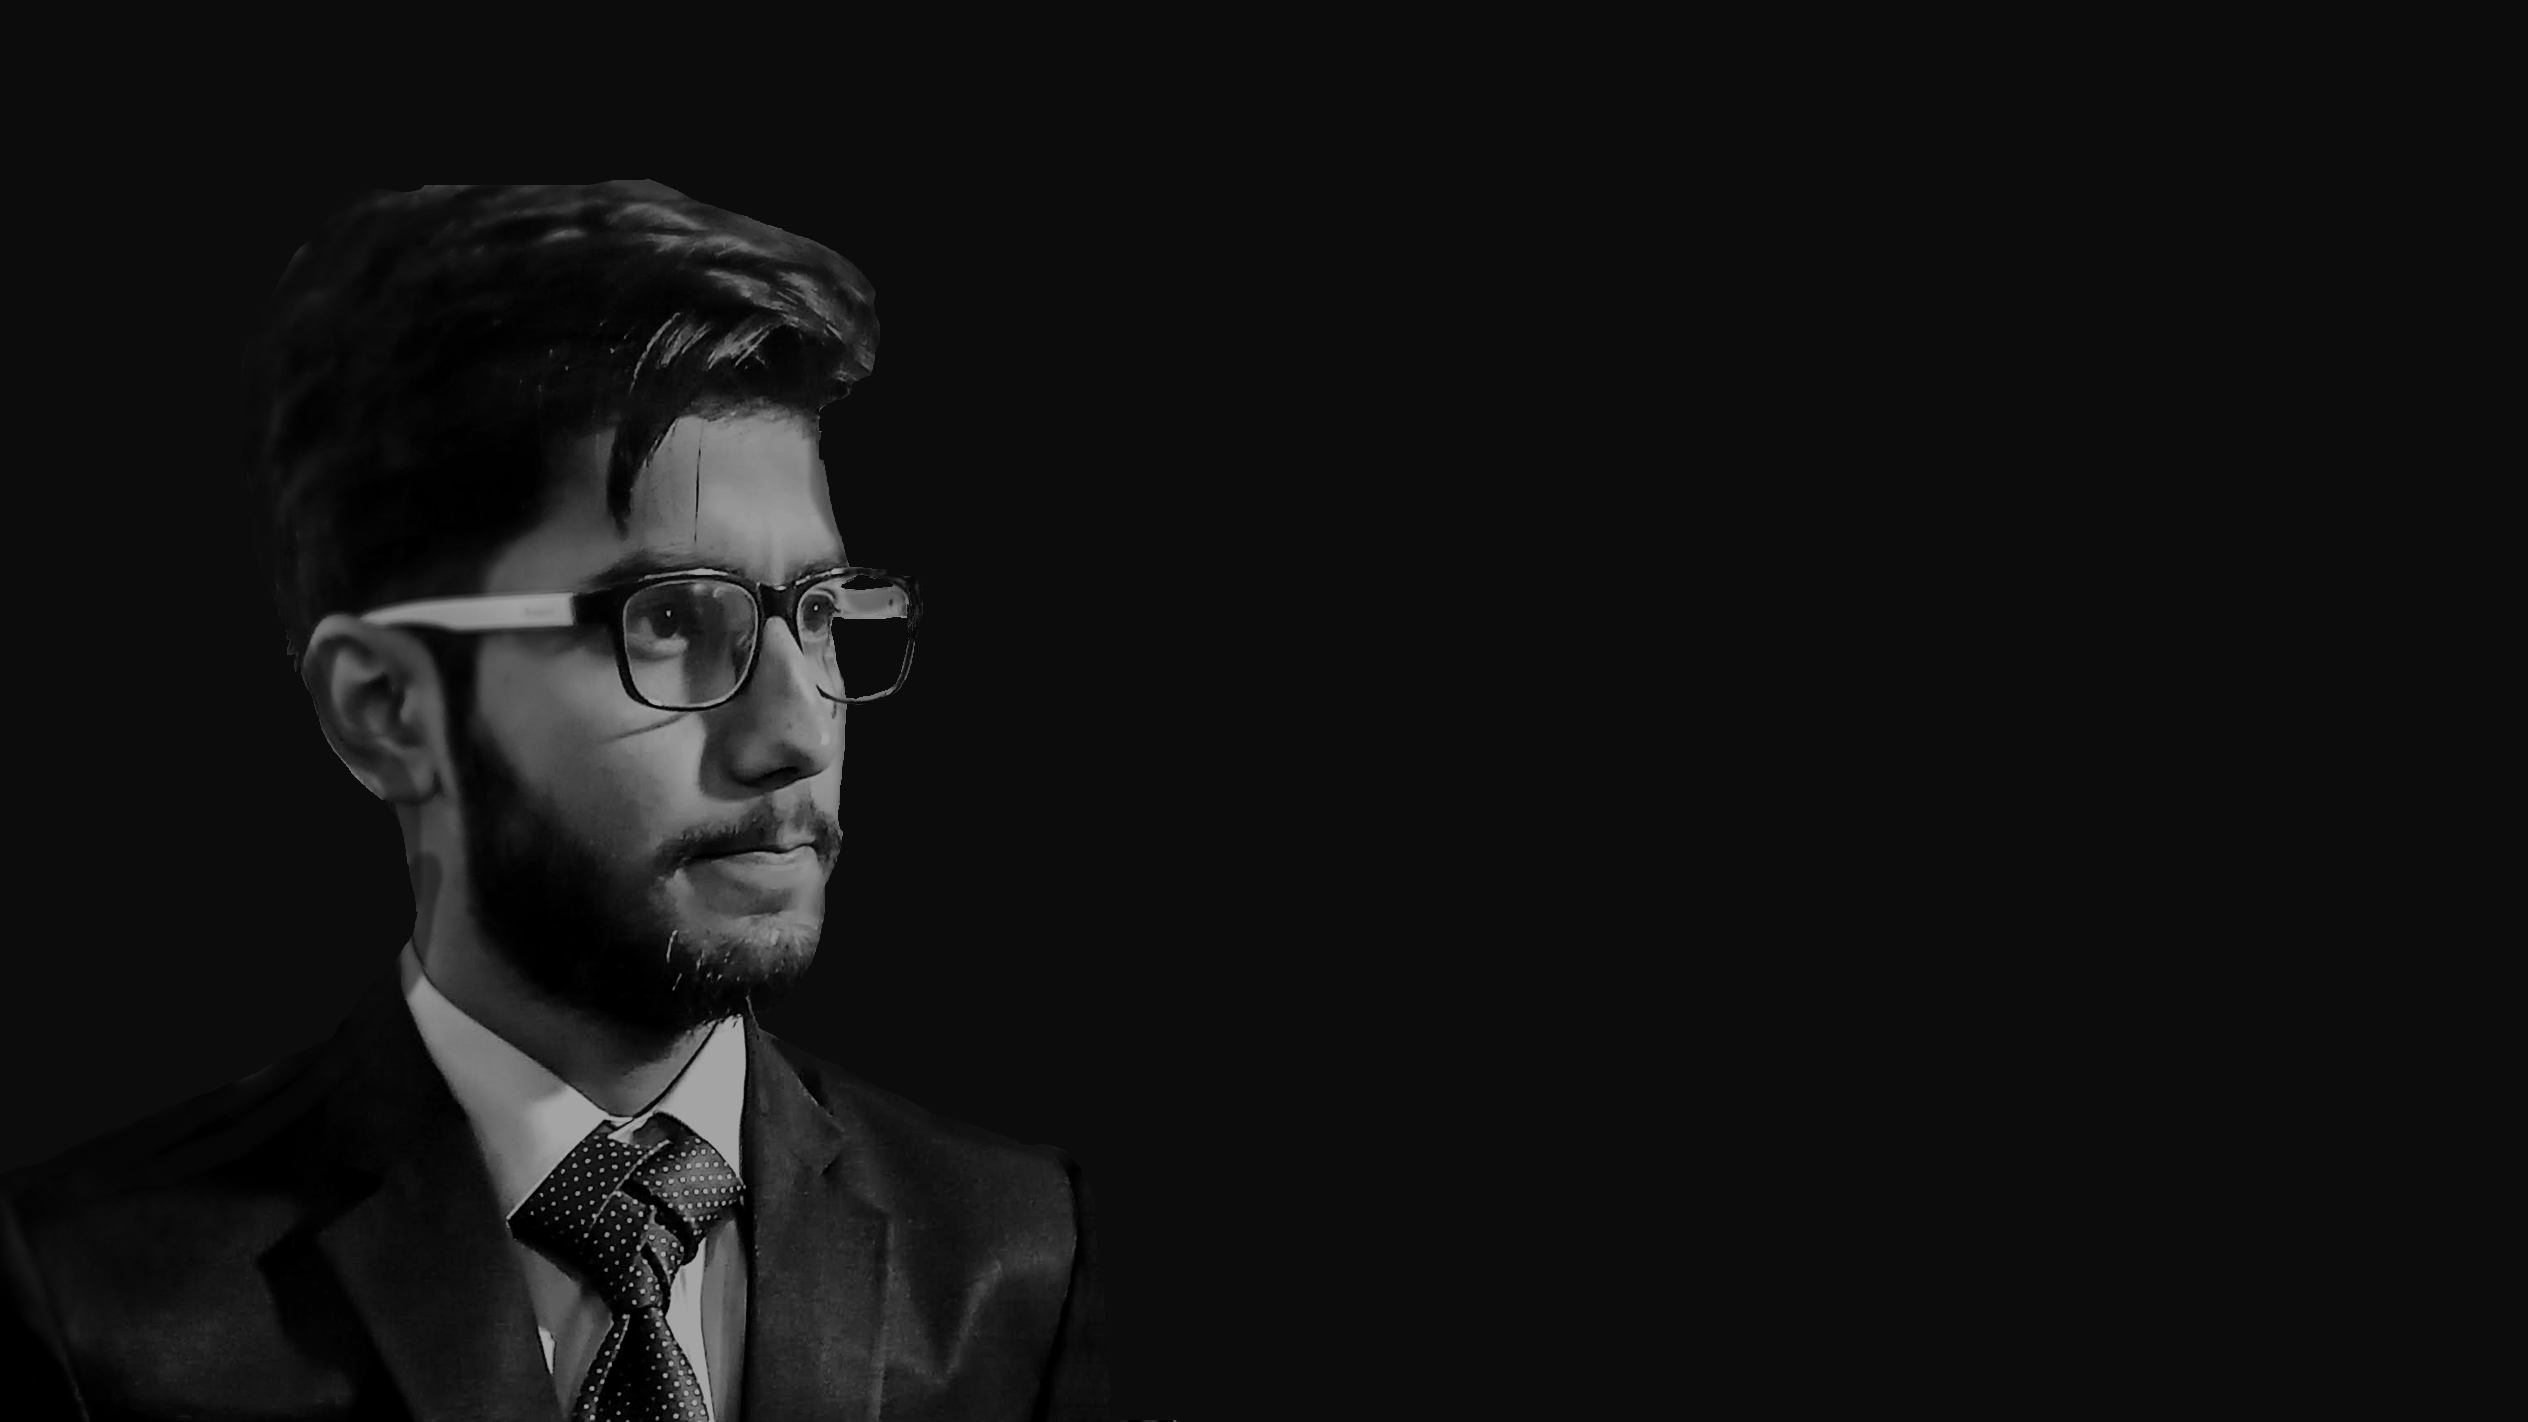
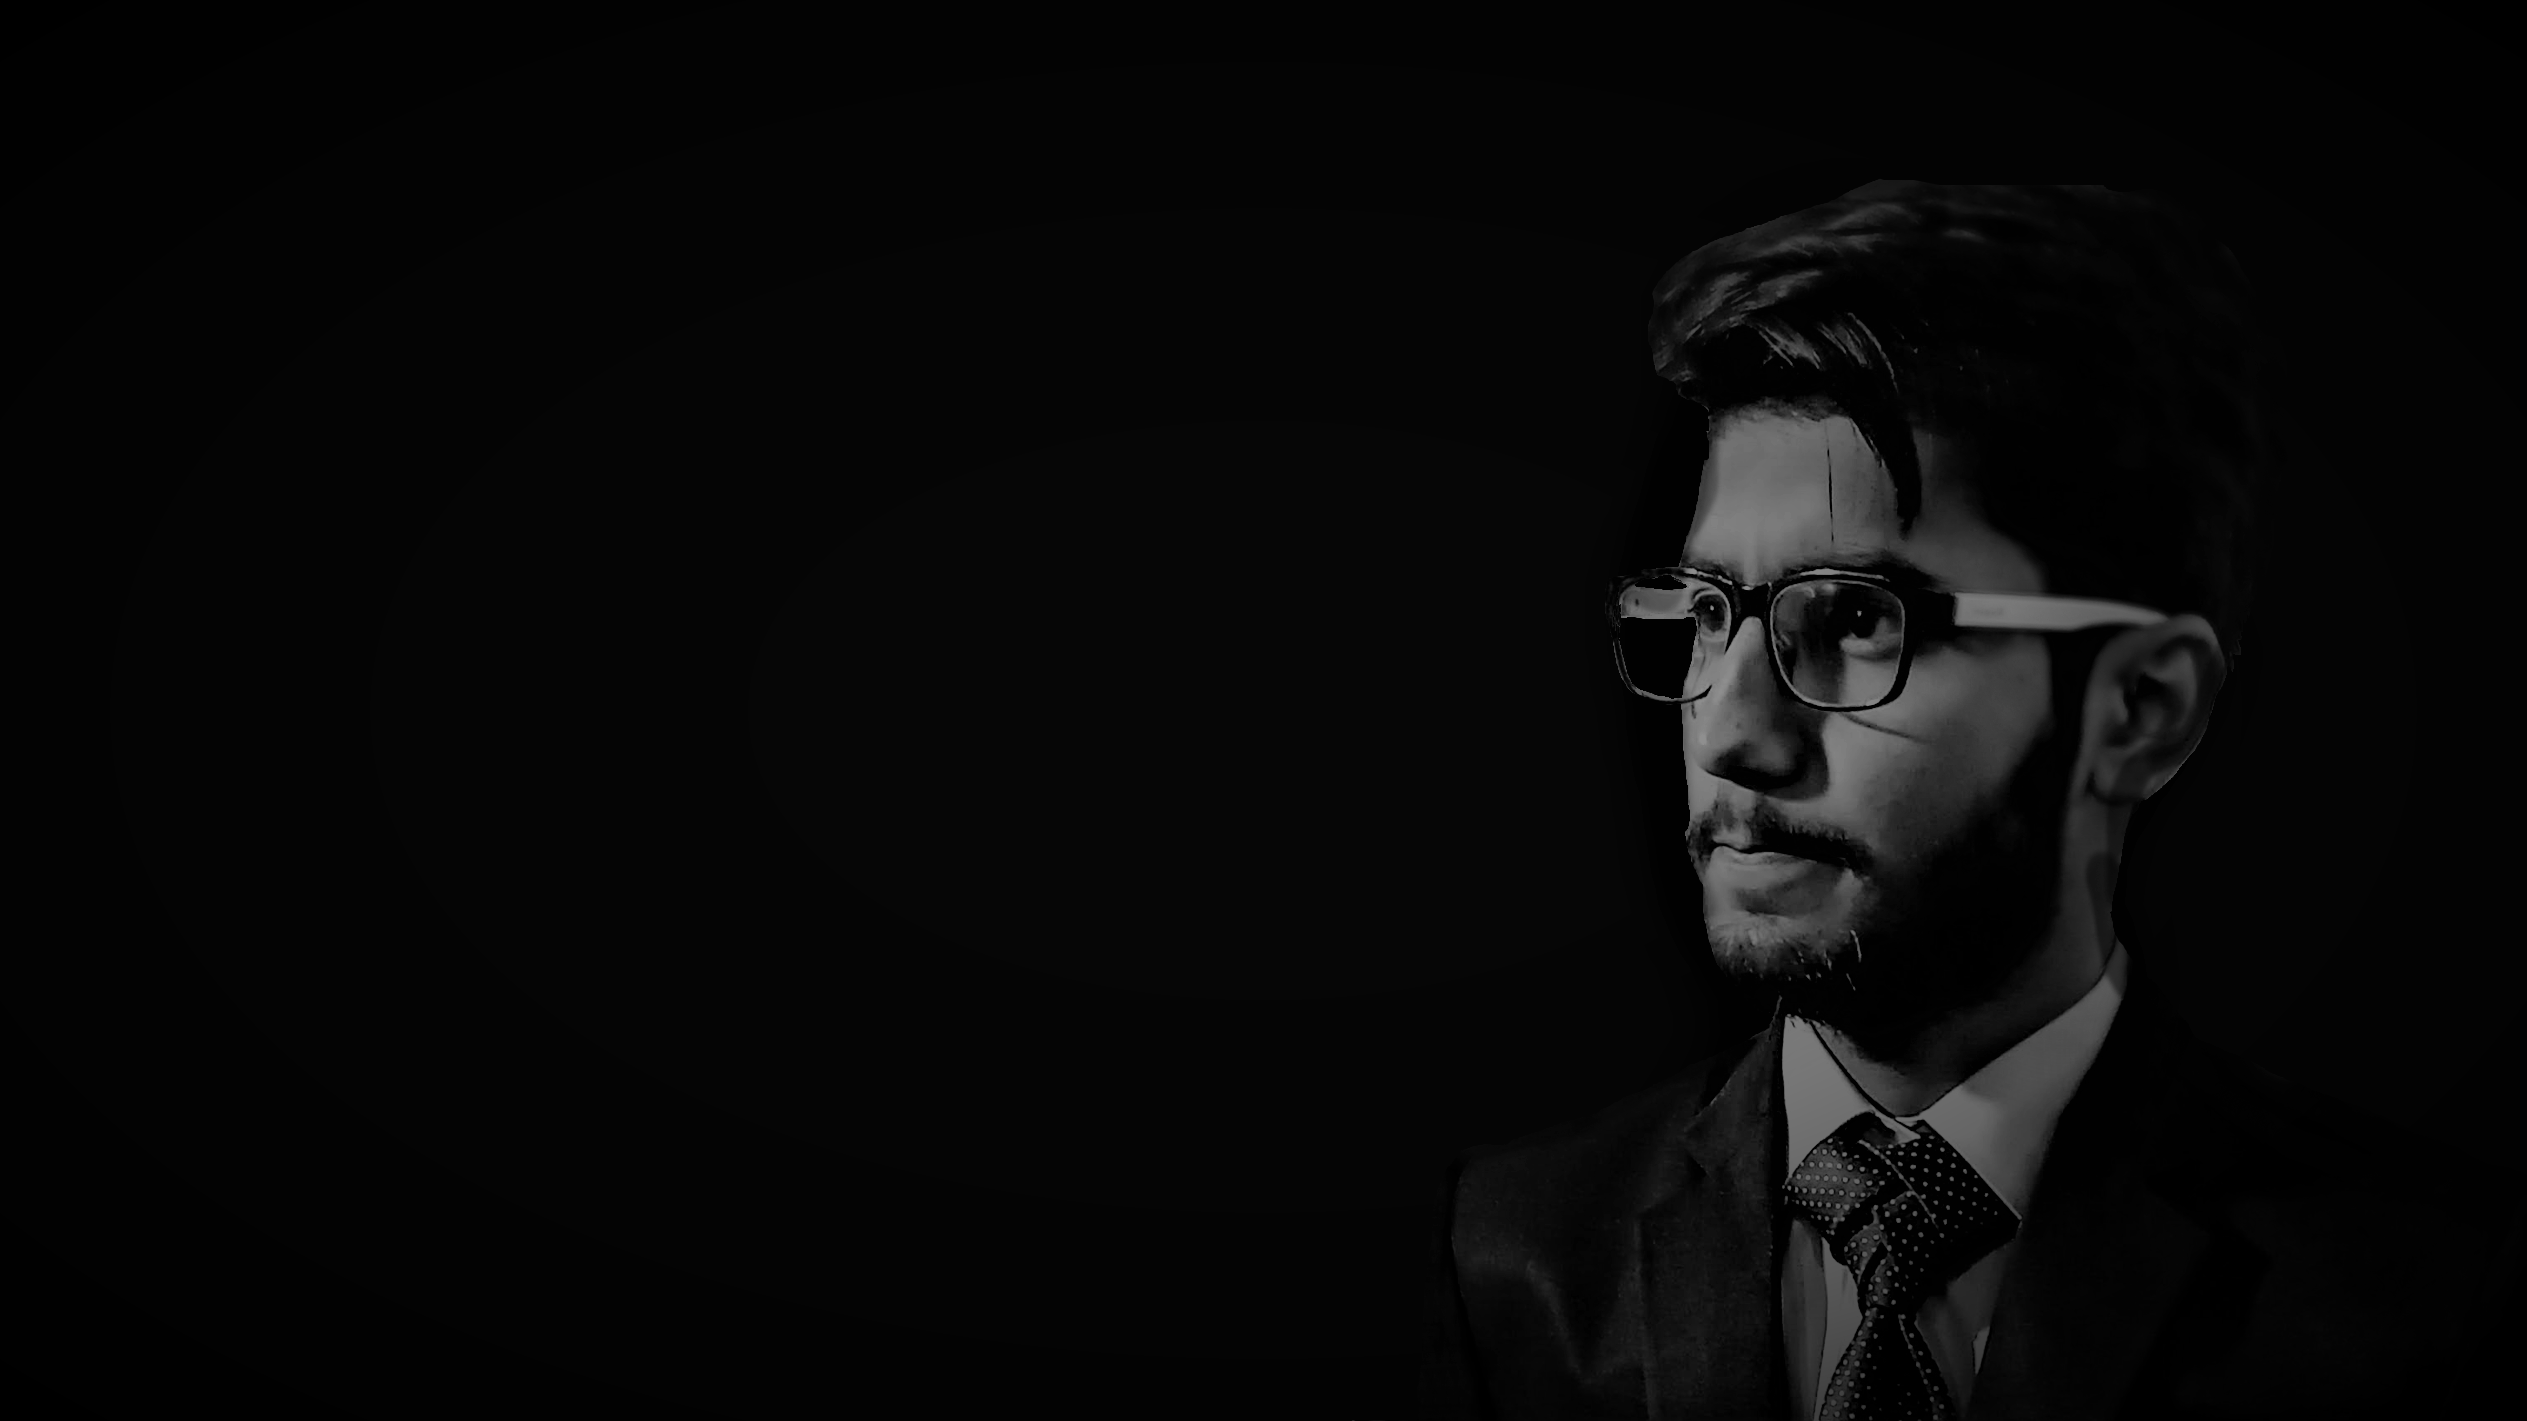
About Component Added
- Added the about page component
- Edited the background image

diff --git a/src/components/About.js b/src/components/About.js
@@ -1,5 +1,62 @@
-import React from "react"
+import React, { useEffect, useState } from "react"
+import sanityClient from "../client.js";
+import nabeel from "../back.png"
+import imageUrlBuilder from "@sanity/image-url";
+import BlockContent from "@sanity/block-content-to-react";
+
+const builder = imageUrlBuilder(sanityClient);
+
+// Function used to extract the source of the image
+function urlFor(source) {
+    return builder.image(source);
+}
 
 export default function About() {
-    return <h1>About Page!</h1>
+    const [author, setAuthor] = useState(null);
+
+    useEffect(() => {
+        sanityClient.fetch(`*[_type == "author"] {
+            name,
+            bio,
+            "authorImage": image.asset->url
+        }`)
+        .then((data) => setAuthor(data[0]))
+        .catch(console.error());
+    }, []);
+
+    if (!author) return <div>Loading...</div>;
+
+    return (
+        <main className="relative">
+            <img 
+                src={ nabeel } 
+                alt="Nabeel Danish" 
+                className="absolute w-full"
+            />
+            <div className="p-10 lg:pt-48 container mx-auto relative">
+                <section className="bg-gray-900 bg-opacity-30 rounded-lg shadow-2xl lg:flex p-20">
+                    <img
+                        src={ urlFor(author.authorImage).url() }
+                        className="rounded w-32 h-32 lg:w-64 lg:h-64 mr-8"
+                        alt="Author" 
+                    />
+                    <div className="text-lg flex-col justify-center">
+                        <h1 className="cursive text-6xl text-green-300 mb-4">
+                            I am {" "}
+                            <span className="text-blue-100">
+                                {author.name}
+                            </span>
+                        </h1>
+                        <div className="prose lg:prose-xl text-white">
+                            <BlockContent
+                                blocks={author.bio}
+                                projectId="n11ez3jk"
+                                dataset="production" 
+                            />
+                        </div>
+                    </div>
+                </section>
+            </div>
+        </main>
+    )
 }
